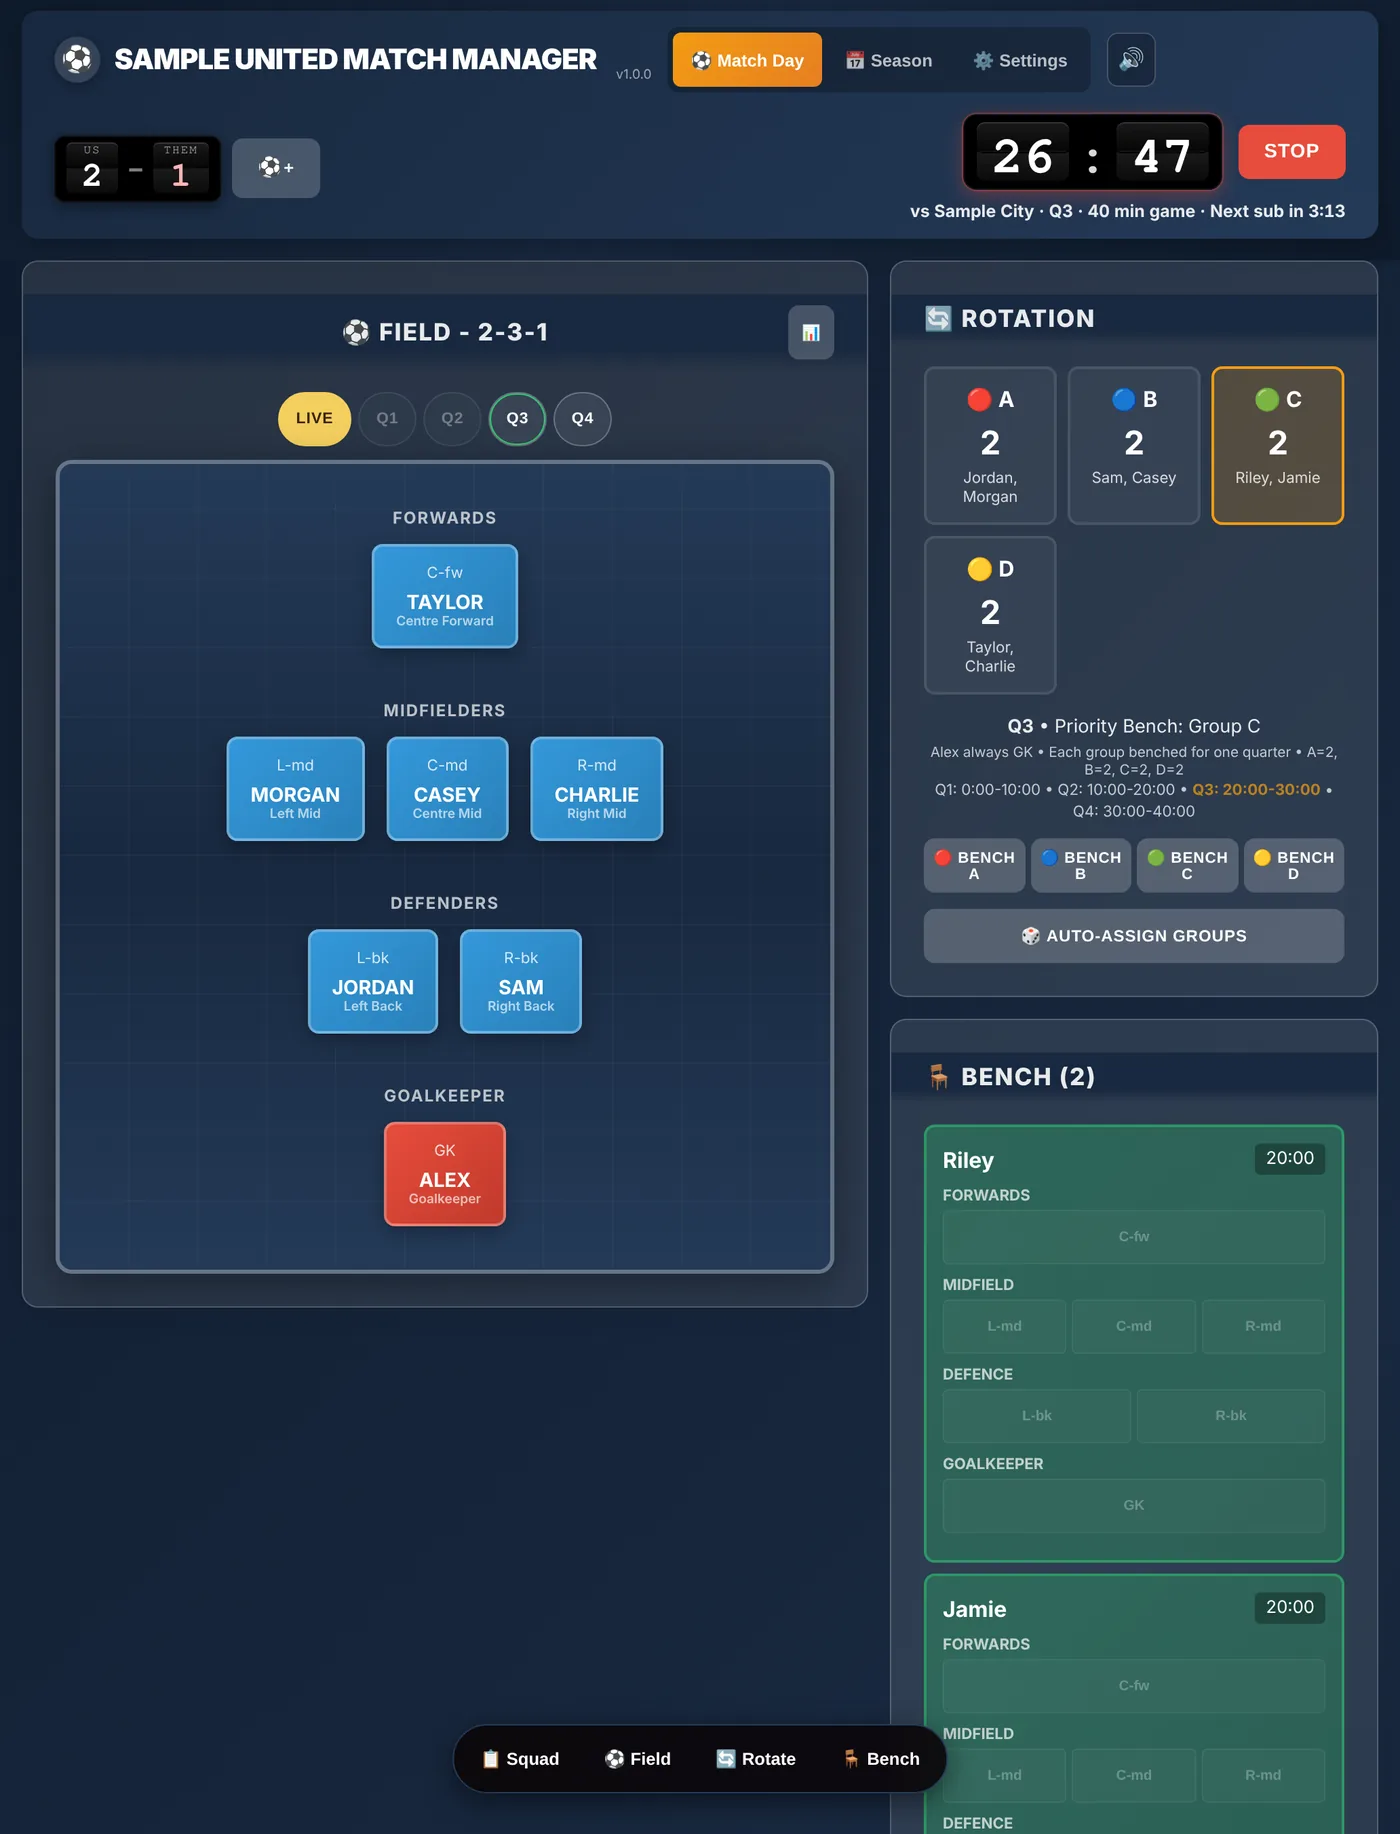
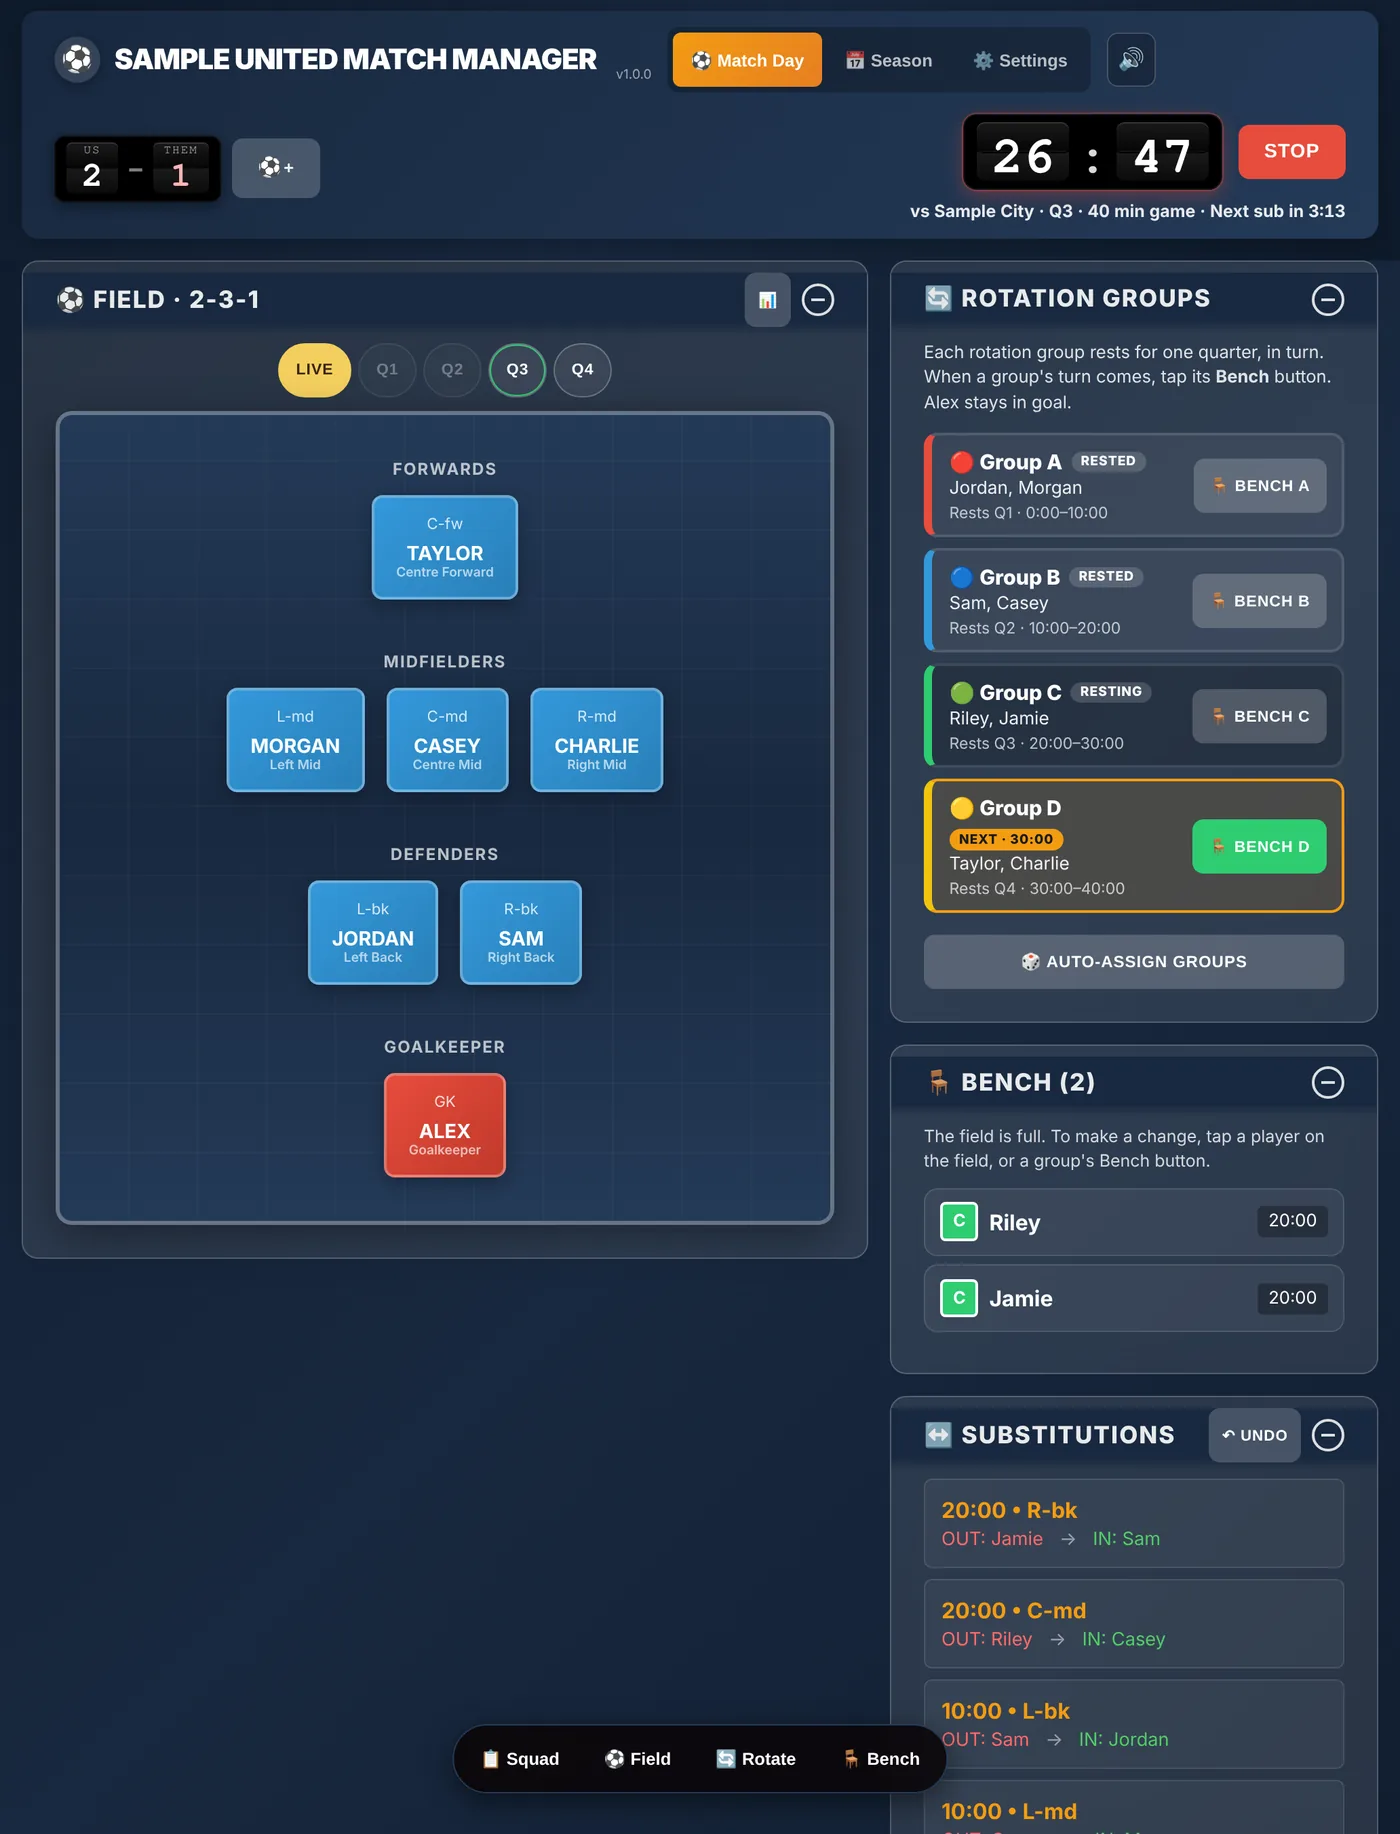
Show build 12's Match Day in the planner, alert and iPad pictures
Build 12 (20261007.1, TestFlight build 12) folds Match Day's panels and
gives each rotation group a card with its own Bench button, lit when the
group's turn comes. The planner, half-time alert and iPad pictures are
redrawn from it the same way as before: store-scenes.mjs, the top safe
area cropped, Lanczos to the two widths, WebP at quality 82. The Welcome,
Quick Rotate and minutes pictures look the same in build 12, so they stay.

The half-time alert's alt text, and the steps beside it, now mention the
lit Bench button, since the alert picture shows it and the app tells
coaches to tap it.

Claude-Session: https://claude.ai/code/session_01XqM4r4fFAwL11P73Sq8KYS

diff --git a/matchmanager/index.html b/matchmanager/index.html
@@ -71,14 +71,14 @@
           <p>The app deals players into rotation groups with a mix of positions. Tap a quarter to see its line-up, and swap anyone you like.</p>
         </li>
         <li>
-          <img class="screen" src="/assets/img/screens/iphone-alert-400.webp" srcset="/assets/img/screens/iphone-alert-400.webp 400w, /assets/img/screens/iphone-alert-800.webp 800w" sizes="(max-width: 480px) 68vw, (max-width: 1000px) 260px, 200px" width="400" height="813" loading="lazy" decoding="async" alt="A half-time alert saying Group B goes back on and Group C rests, above the four rotation groups.">
+          <img class="screen" src="/assets/img/screens/iphone-alert-400.webp" srcset="/assets/img/screens/iphone-alert-400.webp 400w, /assets/img/screens/iphone-alert-800.webp 800w" sizes="(max-width: 480px) 68vw, (max-width: 1000px) 260px, 200px" width="400" height="813" loading="lazy" decoding="async" alt="A half-time alert saying Group B goes back on and Group C rests, above the cards for the four rotation groups, with Group C&#39;s Bench button lit.">
           <h3>Know when to change</h3>
-          <p>When a quarter ends, an alert says which group comes off and which goes back on.</p>
+          <p>When a quarter ends, an alert says which group comes off and which goes back on, and that group&#39;s Bench button lights up.</p>
         </li>
         <li>
           <img class="screen" src="/assets/img/screens/iphone-subs-400.webp" srcset="/assets/img/screens/iphone-subs-400.webp 400w, /assets/img/screens/iphone-subs-800.webp 800w" sizes="(max-width: 480px) 68vw, (max-width: 1000px) 260px, 200px" width="400" height="813" loading="lazy" decoding="async" alt="Quick Rotate proposing two changes, showing each player&#39;s preferred position.">
           <h3>Subs in two taps</h3>
-          <p>Quick Rotate brings on whoever has played least, in positions they like. Check the changes, then confirm.</p>
+          <p>Tap the lit Bench button, and the app brings on whoever has played least, in positions they like. Check the changes, then confirm.</p>
         </li>
         <li>
           <img class="screen" src="/assets/img/screens/iphone-minutes-400.webp" srcset="/assets/img/screens/iphone-minutes-400.webp 400w, /assets/img/screens/iphone-minutes-800.webp 800w" sizes="(max-width: 480px) 68vw, (max-width: 1000px) 260px, 200px" width="400" height="813" loading="lazy" decoding="async" alt="Match statistics at full time: the goalkeeper played all 40 minutes and every other player 30.">
